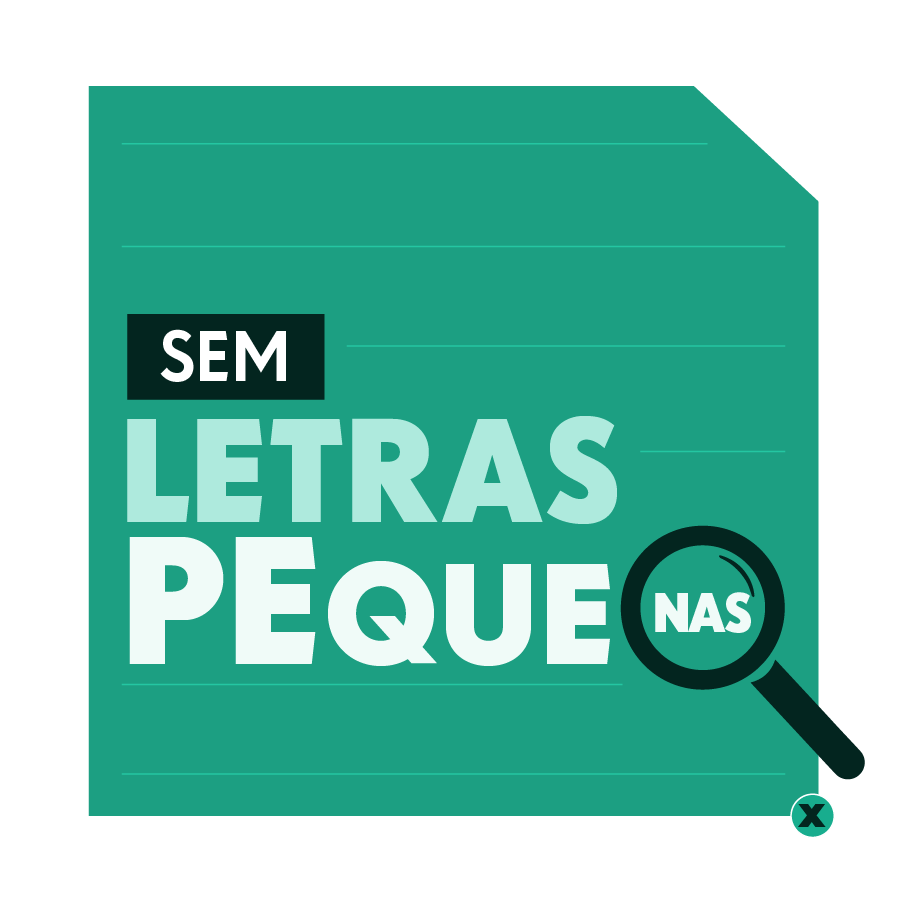
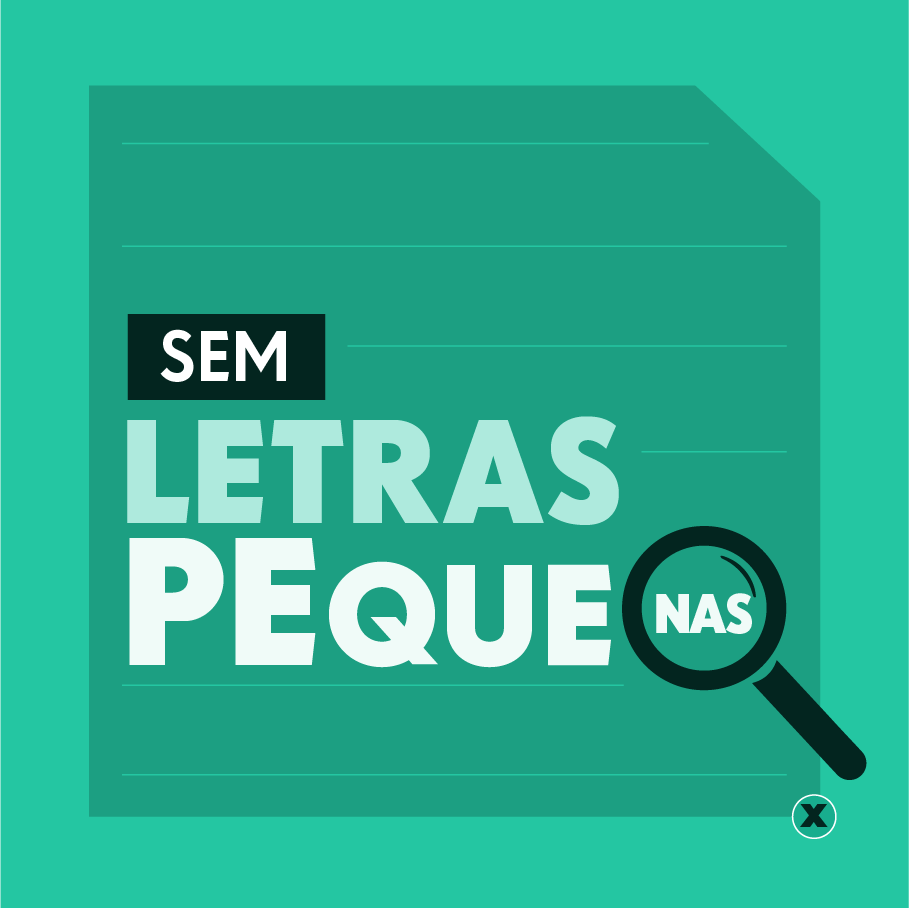
alteração da imagem sem letrinhas pequenas; adição de canonical tags; mudança na cor do nome TRADE OFF

diff --git a/index.html b/index.html
@@ -17,6 +17,13 @@
   <meta name="facebook-domain-verification" content="uxao2tclju86leo613d2njik4ipnjz" />
   <!-- End Facebook domain verification-->
 
+  <!-- canonical links -->
+  <link rel=“canonical” href="https://konsi.com.br/">
+  <link rel=“canonical” href="https://konsi.com.br/#">
+  <link rel=“canonical” href="https://konsi.com.br//">
+  <link rel=“canonical” href="https://konsi.com.br/index.html">
+  <meta content="Gabriel Nunes de Almeida" name="creator">
+  
   <!-- Intercom script -->
   <script>
     window.intercomSettings = {
@@ -164,7 +171,8 @@
           <li><a class="nav-link scrollto" href="#about">Sobre</a></li>
           <li><a class="nav-link scrollto" href="#testimonials">Depoimentos</a></li>
           <li><a class="nav-link scrollto" href="#faq">FAQ</a></li>
-          <li><a class="nav-link scrollto" target="_blank" href="https://tradeoff.com.br/">Trade OFF</a></li>
+          <li id="trade-hover"><a class="nav-link scrollto" target="_blank" href="https://tradeoff.com.br/"><span
+            class="konsi">Trade</span>&nbsp; OFF</a></li>
           <!-- <li><a href="blog.html">Blog</a></li> -->
           <li class="dropdown"><a href="#"><span>Convênios</span> <i class="bi bi-chevron-down"></i></a>
             <ul>

diff --git a/assets/css/style.css b/assets/css/style.css
@@ -221,6 +221,14 @@ h6 {
   color: #0a9f82;
 }
 
+#trade-hover a:hover {
+  color: #428bca;
+}
+
+.konsi {
+  color: #428bca;
+}
+
 .navbar .dropdown:hover>ul {
   opacity: 1;
   top: 100%;
